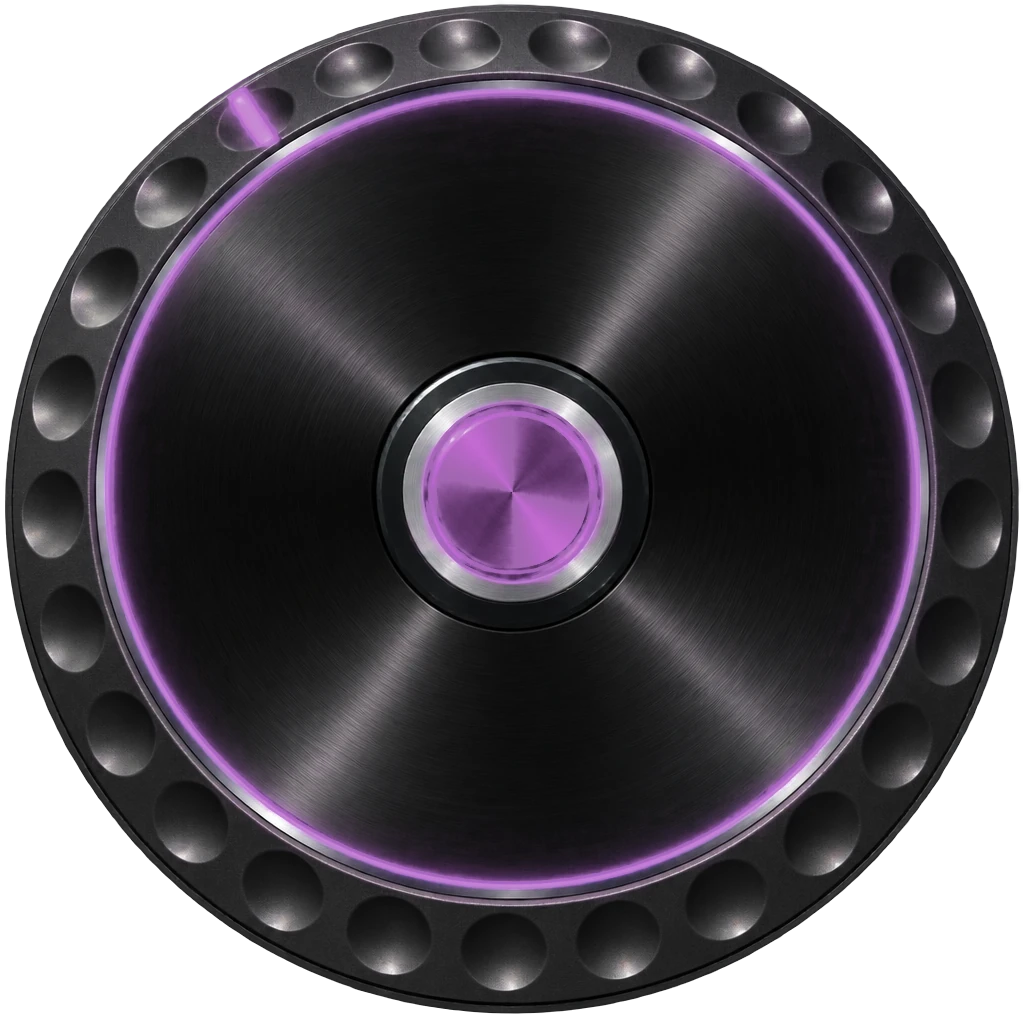
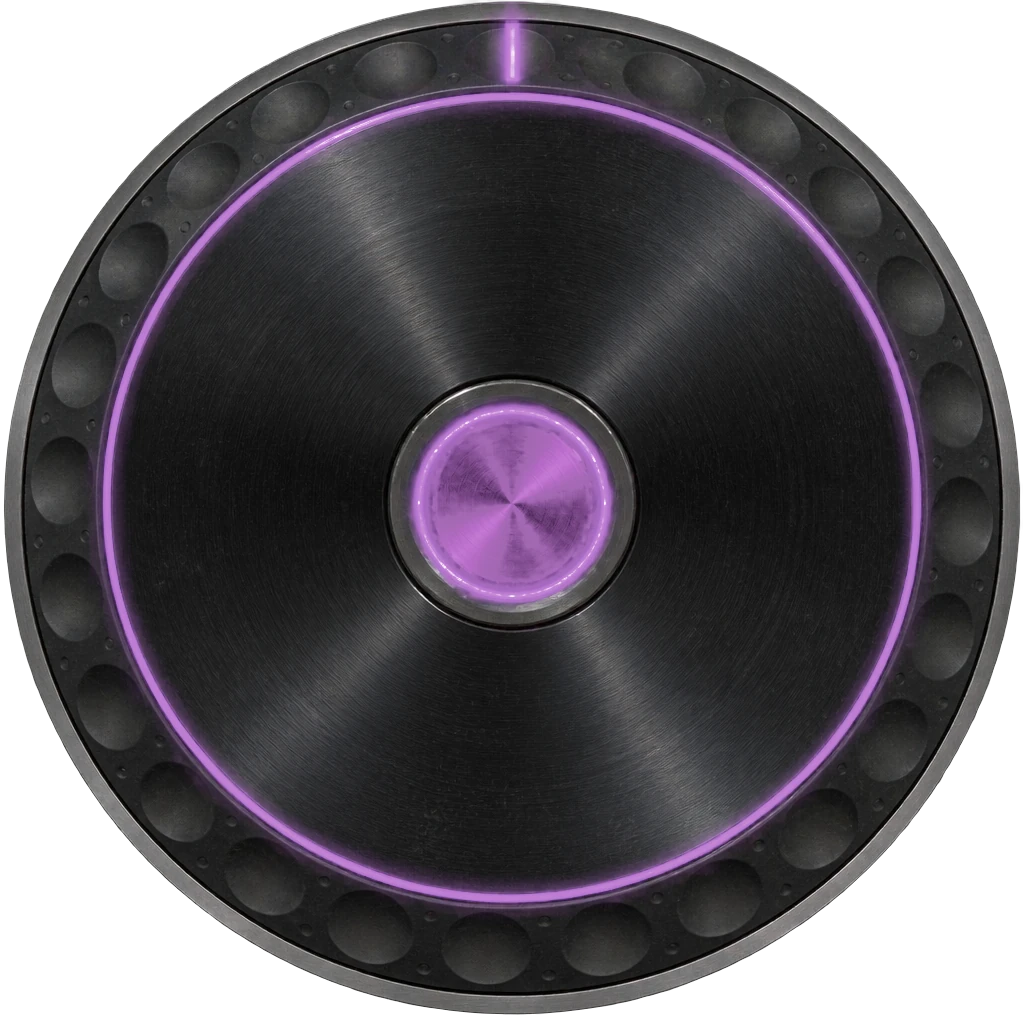
feat: the ice itself turns into the deck
The cutout used to fade up over a frame-filling fossil and shrink, which read
as a second disc arriving on top of the background rather than the background
transforming. Shrinking the embedded fossil removed the need for the
pull-back and made the illusion much stronger: the cutout now lands exactly
on the fossil frozen in the plane, so the fade-up is invisible and what you
watch is the ice beginning to turn.

--disc-size is measured rather than chosen. An angular-roughness sweep puts
the embedded fossil at 348px across in a 1536x1216 source, and the plane is
cover-fit, so its on-screen diameter is 348 x max(1.06vw/1536, 1.24svh/1216),
which folds to max(24.02vw, 35.49svh). Verified 0px delta at 1280x800,
1920x1080, 390x844 and 744x1000.

The plane was re-rolled with the same ice, colour and style and only the
spiral smaller, so nothing about the background changed except its scale.

The jog wheel was re-rolled too: the first read as cartoony and shot from the
side. Its dimples were shaded like spheres and the hub was beveled, which
together implied a camera off the axis. The new one is prompted as a
photograph rather than a render — orthographic from directly overhead with no
side wall or casing visible, shallow dimples with faint even shading, and real
wear: micro-scratches, uneven anodising, dust. Violet blended onto orchid at
distance 22; aspect 1.003, centroid 0.500/0.500.

diff --git a/src/styles/music.css b/src/styles/music.css
@@ -4,7 +4,15 @@
 @import './coverflow.css';
 @import './layout.generated.css';
 
-.page-hero { --stack-h: 220vh; --disc-size: min(44vmin, 540px); }
+/* --disc-size is MEASURED, not chosen. The free cutout has to land exactly on
+   the fossil frozen in the plane, because the owner's ask is that the
+   background itself turns into the deck — not that a second disc appears over
+   it. tools/disc.py-style angular-roughness measurement puts the embedded
+   fossil at 348px across in a 1536x1216 source (28.6% of its height), and the
+   plane is cover-fit, so its on-screen diameter is 348 x max(1.06vw/1536,
+   1.24svh/1216). Folded out, that is exactly the max() below, and it tracks
+   within a pixel at 1280x800, 1440x900, 1920x1080, 390x844 and 744x1000. */
+.page-hero { --stack-h: 220vh; --disc-size: max(24.02vw, 35.49svh); }
 .page-hero .plate--copy { text-align: center; }
 .page-hero .lede { margin-inline: auto; }
 
@@ -38,20 +46,22 @@
      than a whole turn: a full 360 lands back where it started and reads as
      nothing having happened. */
   --spin: calc(var(--p, 0) * 300deg);
-  /* The release. It fades up out of the embedded fossil, which renders about
-     1111px across at 1440x900 — wider than the viewport is tall — and settles
-     to --disc-size. The pull-back IS the transition: the frozen pattern in the
-     wall resolves into something hand-sized you could actually put a finger on.
-     It also answers the owner's note that the fossil felt too big: it is, at
-     rest, deliberately, and the move is what resolves it. */
-  --release: clamp(0, calc(var(--p, 0) / 0.55), 1);
-  --pull: calc(2.45 - var(--release) * 1.45);
-  opacity: clamp(0, calc(var(--p, 0) / 0.18), 1);
+  /* NO scale change, and that is the point. The cutout is the same size as
+     the fossil already frozen in the plane, so when it fades up it lands
+     exactly on top of it and the swap is invisible — what you see is the
+     BACKGROUND beginning to turn, not a second disc arriving over it. An
+     earlier version had the cutout fade up at 2.45x and shrink, because the
+     embedded fossil was then frame-filling; shrinking the fossil instead made
+     the pull-back unnecessary and the illusion much stronger. */
+  opacity: clamp(0, calc(var(--p, 0) / 0.10), 1);
 }
 
 /* The ice dims as the disc takes over, so the embedded fossil stops competing
    with the free one. Without this you see the spiral twice at once. */
-.page-hero .plate--back { opacity: calc(1 - clamp(0, calc(var(--p, 0) / 0.45), 1) * 0.55); }
+/* The ice dims a little as the deck takes over, but far less than before: the
+   embedded fossil is now hidden UNDER the cutout rather than competing beside
+   it, so the plane only needs to recede, not get out of the way. */
+.page-hero .plate--back { opacity: calc(1 - clamp(0, calc(var(--p, 0) / 0.5), 1) * 0.3); }
 /* The copy hands over. It is readable over the frozen spiral at rest, which
    is the point of the layer order — but by the end it is lying across the
    platter, so it clears out once the transformation is underway and lets the
@@ -74,7 +84,7 @@
   width: var(--disc-size);
   height: var(--disc-size);
   aspect-ratio: 1;
-  transform: translate(-50%, -50%) scale(var(--pull)) rotate(var(--spin));
+  transform: translate(-50%, -50%) rotate(var(--spin));
   background: transparent;
 }
 .page-hero .plate--disc > .frame > img { width: 100%; height: 100%; object-fit: contain; }

diff --git a/docs/superpowers/specs/2026-09-17-music-recursion-spiral-design.md b/docs/superpowers/specs/2026-09-17-music-recursion-spiral-design.md
@@ -305,7 +305,7 @@ one centre, and `tools/disc.py` measured their diameters as matching to within
 **0.1%**, so the cut needed no correction at all. 300deg rather than a full
 turn: 360 lands back where it started and reads as nothing having happened.
 
-**The pull-back does double duty.** The embedded fossil renders about 1111px
+**SUPERSEDED — the pull-back is gone; see below.** The pull-back did double duty. The embedded fossil renders about 1111px
 across at 1440x900 — wider than the viewport is tall — and the owner flagged it:
 *"I feel like the fossil a little too big especially for transition."* Rather
 than shrink it, the free disc fades up at 2.45x and settles to 1.0 across the
@@ -326,6 +326,37 @@ Two corrections made in the browser, neither visible in a still:
 what stops the transformation feeling rushed. Still 4 notches under Workshop and
 the page now carries a full transformation rather than a static hero; if 14 is
 judged too long, trimming to ~190vh returns roughly 12.
+
+---
+
+**The BACKGROUND turns into the deck, which is not the same thing as a disc
+appearing over it.** The owner: *"I want the actual background to change into
+the CDJ scroll wheel. Right now you put on the other sticker. So make the
+background smaller, but also make it fit with the background."*
+
+Shrinking the embedded fossil made the pull-back unnecessary and the illusion
+far stronger. The fossil in the plane is now a modest medallion rather than a
+frame-filling pattern, and the cutout lands on it **exactly**, so the fade-up is
+invisible and what you watch is the ice itself beginning to turn.
+
+`--disc-size` is therefore MEASURED, not chosen. An angular-roughness sweep puts
+the embedded fossil at **348px across in a 1536x1216 source** (28.6% of its
+height); the plane is cover-fit, so its on-screen diameter is
+`348 x max(1.06vw/1536, 1.24svh/1216)`, which folds to `max(24.02vw, 35.49svh)`.
+Verified in-browser: **0px delta at 1280x800, 1920x1080, 390x844 and 744x1000.**
+
+The plane also dims far less now (0.3 rather than 0.55) — the embedded fossil is
+hidden UNDER the cutout instead of competing beside it, so the ice only has to
+recede, not get out of the way.
+
+**The wheel was re-rolled: the first one was cartoony and read as a side view.**
+Its dimples were shaded like spheres and the hub was beveled, which together
+implied a camera off the axis. The second roll is prompted as a photograph
+rather than a render — orthographic from directly overhead, no side wall or
+outer casing visible anywhere, shallow dimples with only faint even shading,
+and real wear (micro-scratches, uneven anodising, dust, the dulling of a
+surface touched thousands of times). Violet blended onto orchid at distance
+**22**. Gates: aspect 1.003, centroid 0.500/0.500.
 
 ---
 
